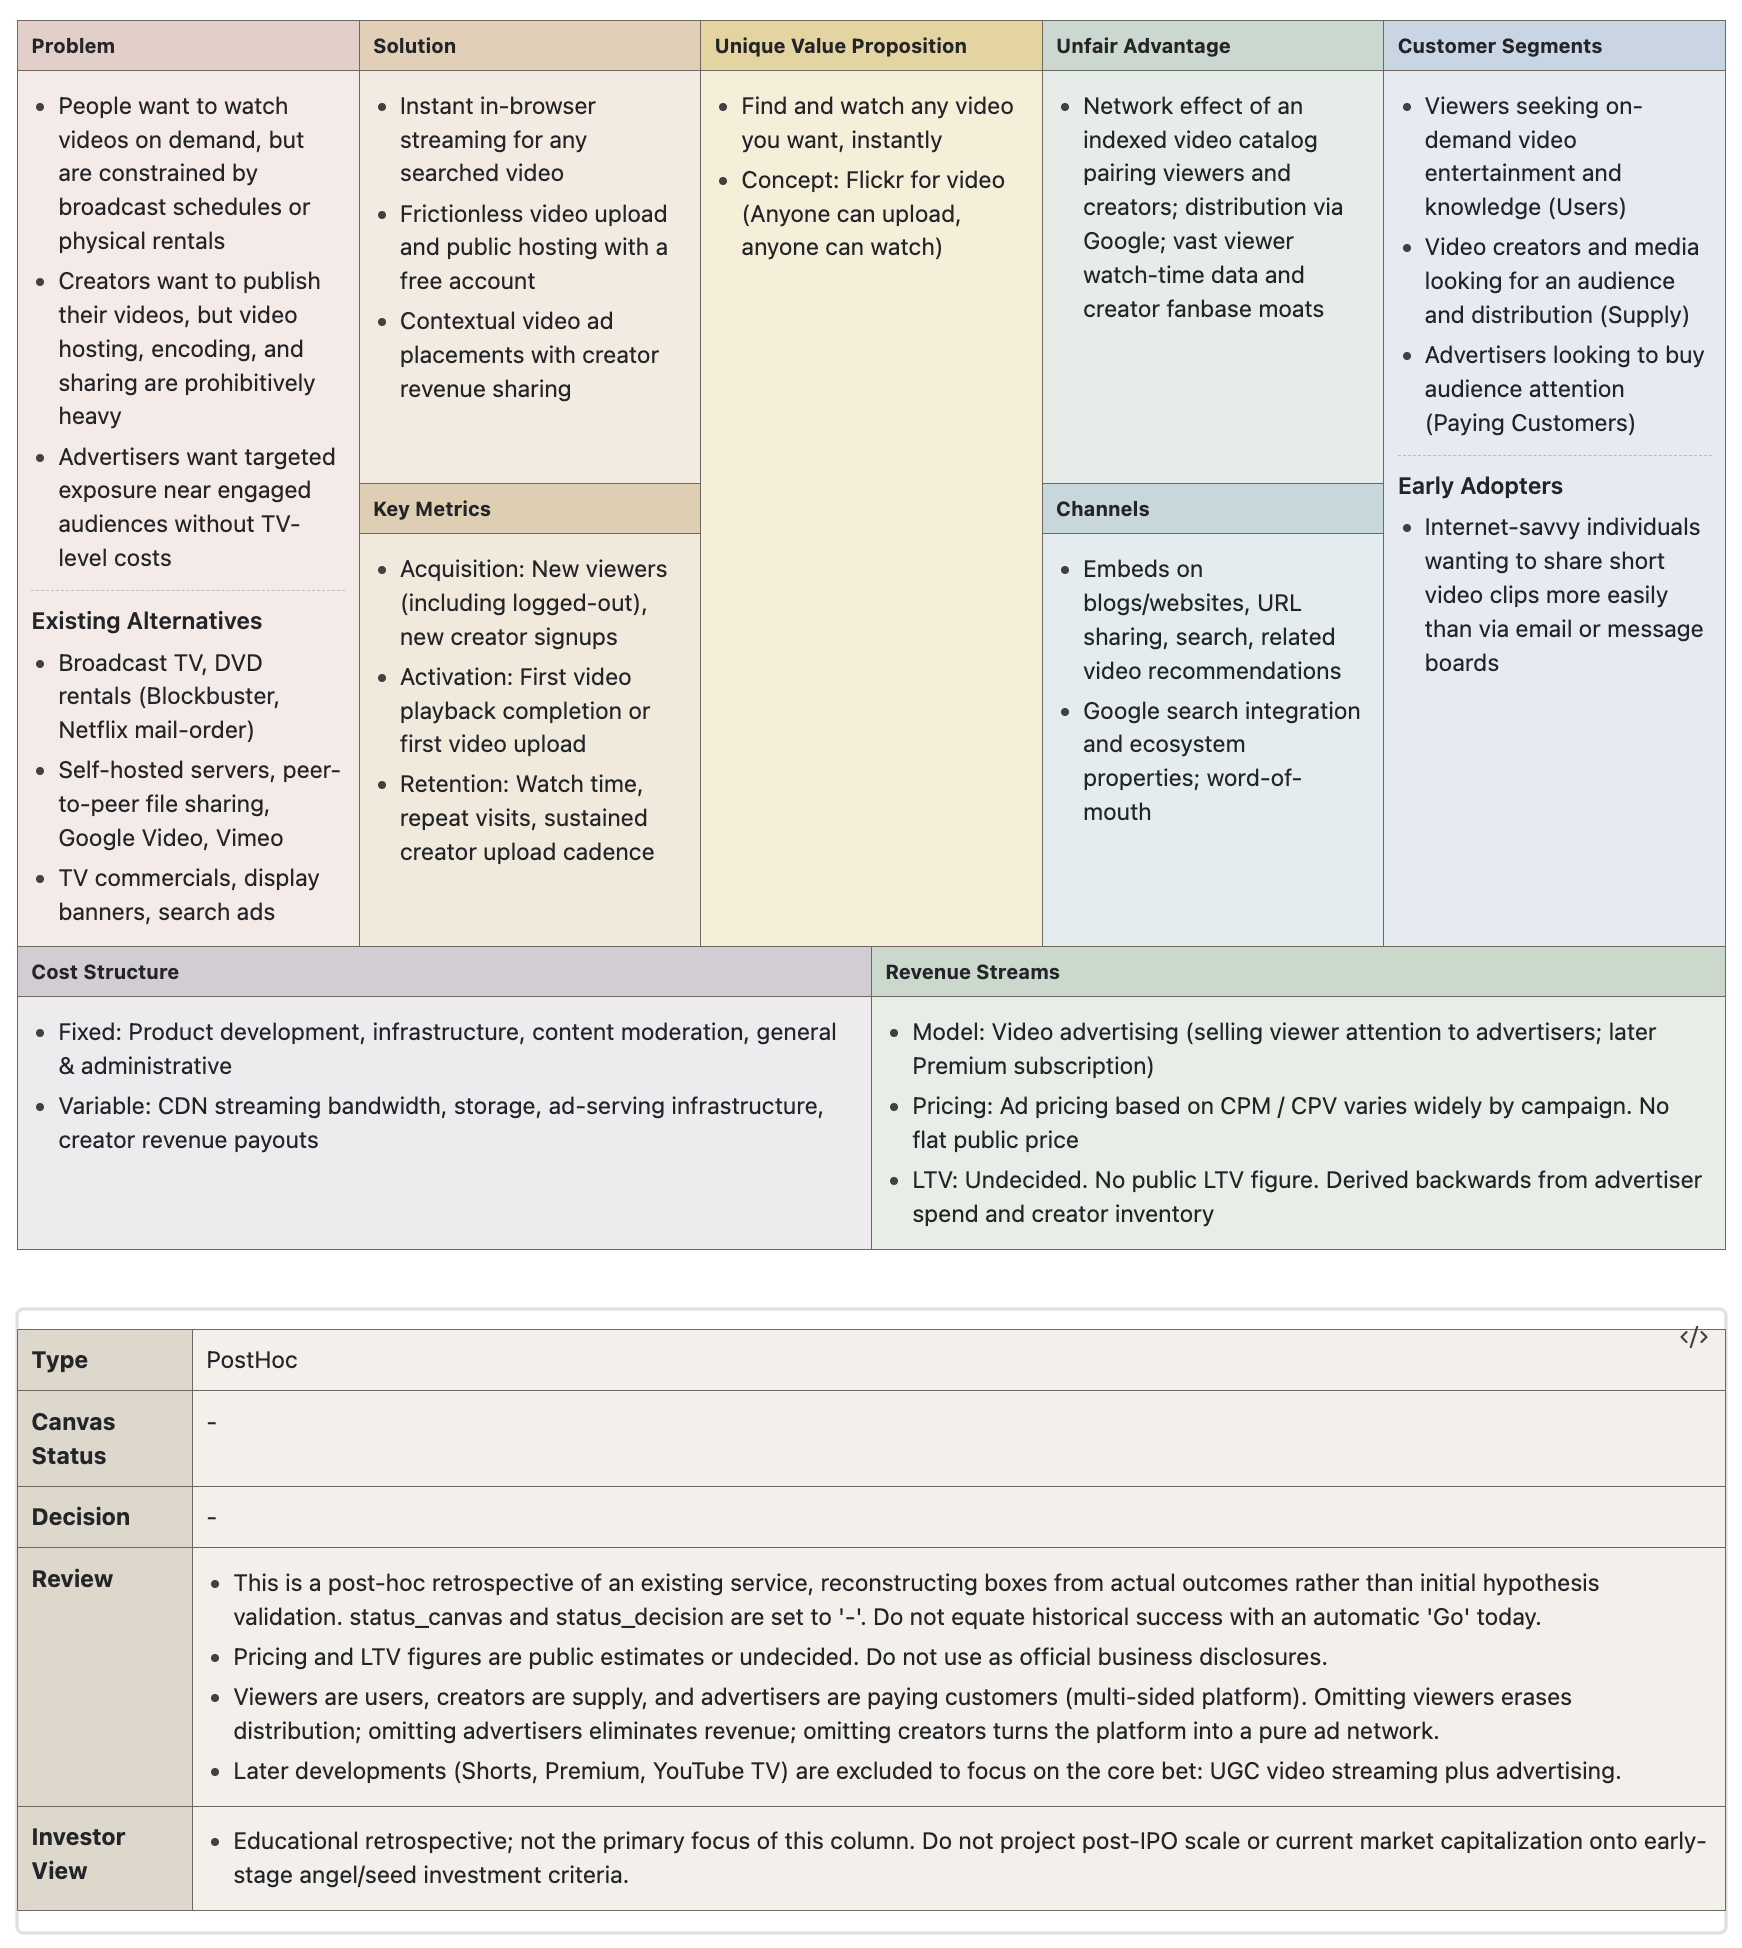
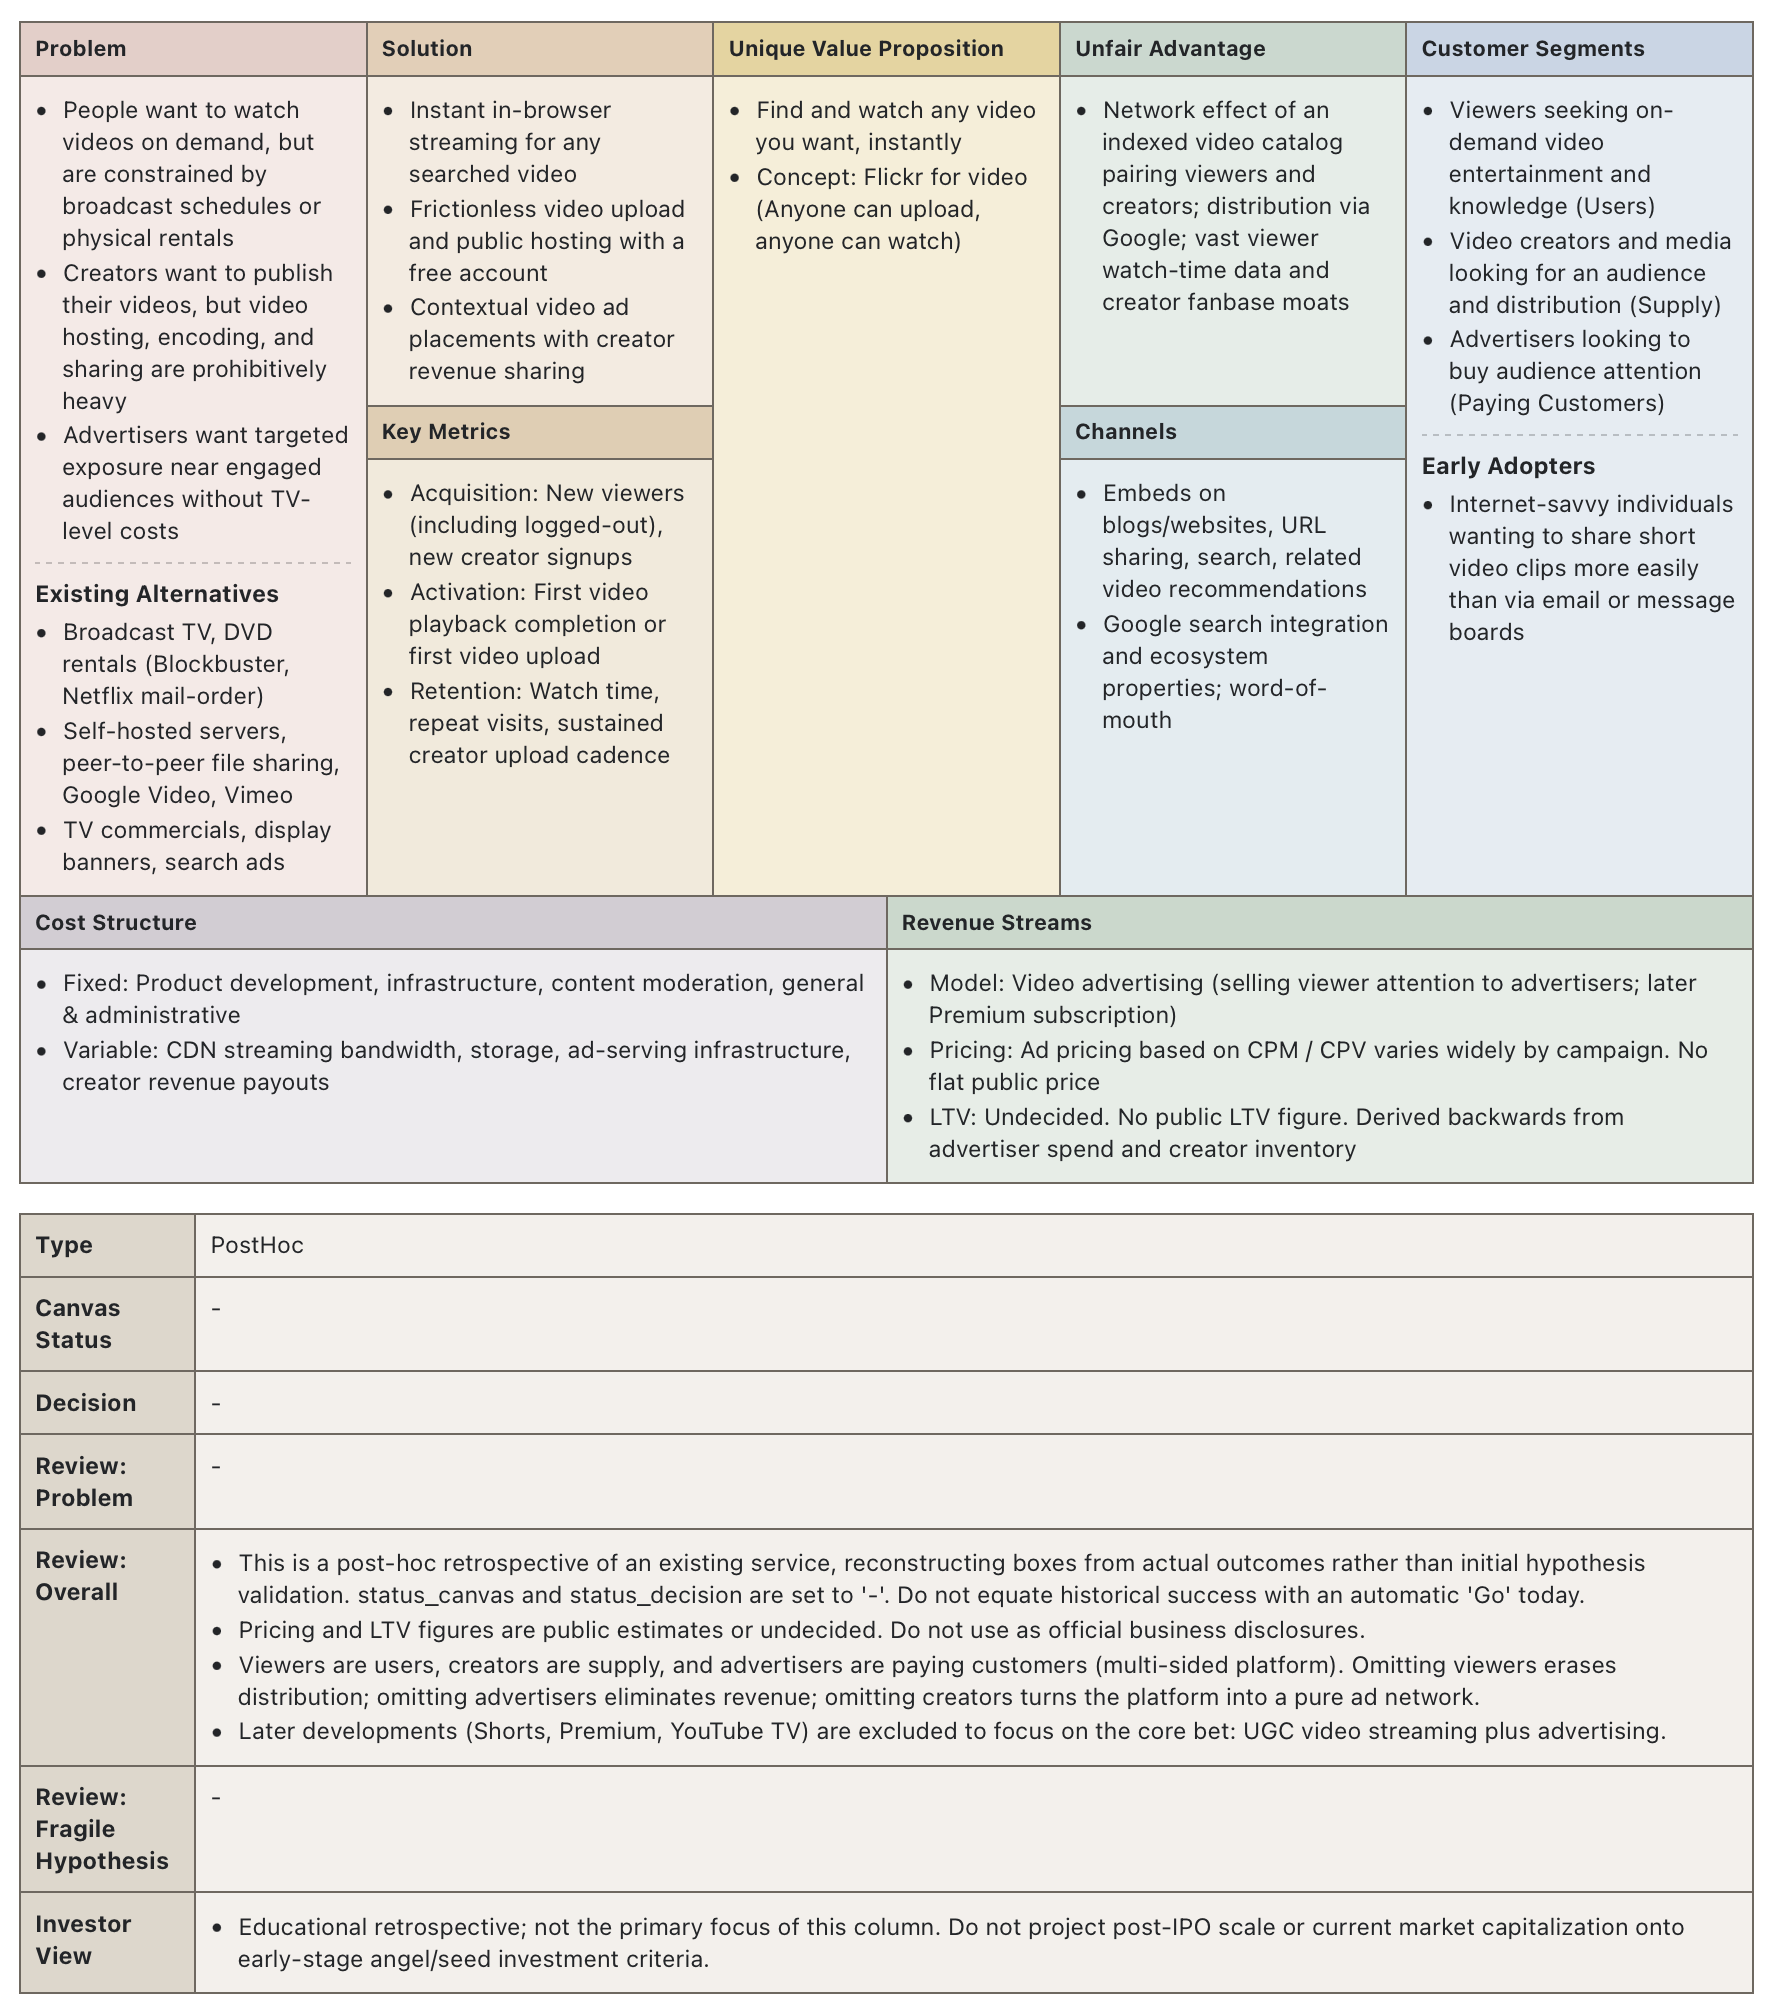
Add explicit language codes to Japanese sample file names and refresh preview image
Japanese samples now use the -ja suffix like the existing -en sample, so every sample's language is clear from its file name. The README preview image is updated to match the current rendering.

diff --git a/skills/docs-lean-canvas/SKILL.md b/skills/docs-lean-canvas/SKILL.md
@@ -51,7 +51,7 @@ Confirm the following:
 - The Markdown 5-column HTML is rendered by [scripts/render.py](scripts/render.py) from [assets/template.md](assets/template.md) and [assets/lean-canvas.css](assets/lean-canvas.css). When altering the table layout, edit template.md and the CSS; do not touch hardcoded table logic in Python. Type, Canvas Status, Decision, Review: Problem, Review: Overall, Review: Fragile Hypothesis, and Investor View are placed in the table below, not inside the canvas table. Only fill template.md `{{...}}` tokens when manually assembling. CSS is inlined into each element's `style` attribute, not in `<style>` blocks. Do not nest tables. Do not create blank cells or 3-column layouts.
 - Arrays, metrics, costs, revenue, and UVP in YAML are formatted as `<ul>` inside cells. UVP consists of two items: headline and "Concept: high_level_concept" (or "例え: high_level_concept" in Japanese; the script outputs them this way).
 - The UVP headline must be a promise that resonates with the customer, not a summary of feature lists.
-- Retrospective examples (not official views): [Mercari](references/sample/mercari.lean-canvas.yaml), [YouTube](references/sample/youtube.lean-canvas.yaml), [LinkedIn](references/sample/linkedin.lean-canvas.yaml). Do not use these as benchmarks for evaluation criteria.
+- Retrospective examples (not official views): [Mercari](references/sample/mercari-ja.lean-canvas.yaml), [YouTube](references/sample/youtube-ja.lean-canvas.yaml), [LinkedIn](references/sample/linkedin-ja.lean-canvas.yaml). Do not use these as benchmarks for evaluation criteria.
 - Match the user's language. If the user interacts in Japanese, write the canvas in Japanese (defaulting to `lang: ja`). When outputting in English, specify `meta.lang: en` in the YAML. `render.py` automatically switches to the English template ([assets/template_en.md](assets/template_en.md)) and English labels (Problem, Acquisition:, Fixed:, etc.) (can also be specified via CLI option `--lang en`).
 
 ## Markdown Viewer Compatibility
